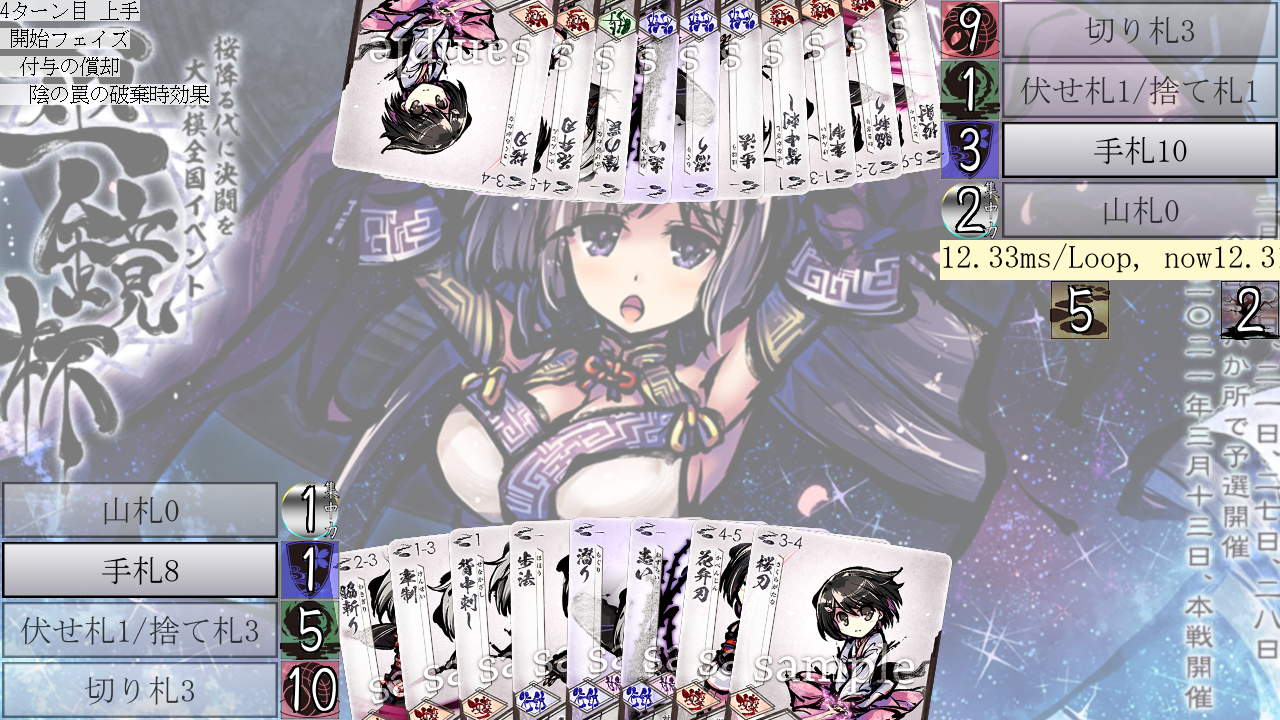
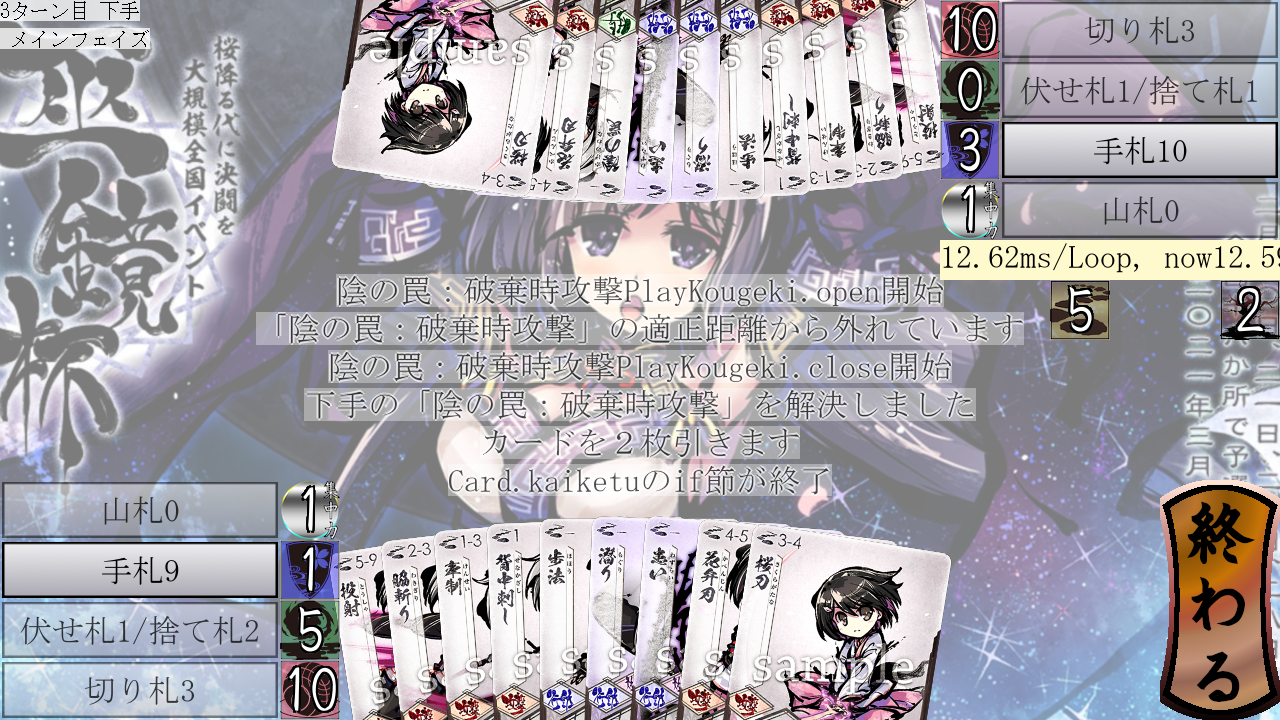
J305:moderator.last_layer関数を使って上にOverLayerが無い時に即時pop。更にPlayKougekiにもCard.can_play制約を追加

diff --git a/koukas/n_1.py b/koukas/n_1.py
@@ -55,10 +55,6 @@ def _taiounize_n_8(kougeki: Card, delivery: Delivery, hoyuusya: int) -> Card:
 n_8 = Card(img=pygame.image.load("cards/na_00_hajimari_a_n_8.png"), name="患い", cond=auto_di, type=CT_KOUDOU,
            kouka=_kouka_n_8, taiou=True, taiounize=_taiounize_n_8)
 
-def EOF(delivery: Delivery, hoyuusya: int) -> None:
-    raise EOFError("よしっ！")
-
-# def _hakizi_n_9(delivery: Delivery, hoyuusya: int) -> None:
 _atk_n_9 = Card(img=pygame.image.load("cards/na_00_hajimari_a_n_9.png"), name="陰の罠：破棄時攻撃", cond=auto_di, type=CT_KOUGEKI,
                 aura_damage=int_di(3), life_damage=int_di(2), maai_list=dima_di(2, 3))
 

diff --git a/mod/ol/play_kougeki/play_kougeki.py b/mod/ol/play_kougeki/play_kougeki.py
@@ -38,6 +38,9 @@ class PlayKougeki():
         return self.uke_taba.get_hover_huda() or self.taiou_taba.get_hover_huda() or view_youso
 
     def open(self) -> None:
+        # if not self.kougeki.can_play(delivery=self.delivery, hoyuusya=self.hoyuusya, popup=True):
+        #     moderator.pop()
+        #     return
         self.uke_taba = make_uke_taba(kougeki=self.kougeki, discard_source=self._discard_source,
                                       delivery=self.delivery, hoyuusya=self.hoyuusya)
         self.taiou_taba = make_taiou_taba(delivery=self.delivery, hoyuusya=self.hoyuusya)

diff --git a/mod/card.py b/mod/card.py
@@ -58,6 +58,7 @@ class Card():
         elif self.type == CT_KOUGEKI:
             from mod.ol.play_kougeki.play_kougeki import PlayKougeki
             moderator.append(over_layer=PlayKougeki(kougeki=self, delivery=delivery, hoyuusya=hoyuusya, huda=huda))
+            popup_message.add("Card.kaiketuのif節が終了")
         elif self.type == CT_HUYO:
             from mod.ol.play_huyo import PlayHuyo
             moderator.append(over_layer=PlayHuyo(card=self, delivery=delivery, hoyuusya=hoyuusya, huda=huda))

diff --git a/mod/ol/hakizi.py b/mod/ol/hakizi.py
@@ -24,10 +24,12 @@ class Hakizi():
 
     def open(self) -> None:
         self.huda.card.hakizi(self.delivery, self.hoyuusya)
-        moderator.pop()
+        if moderator.last_layer() == self:
+            moderator.pop()
 
     def close(self) -> PopStat:
         return PopStat(POP_HAKIZI_DID)
 
     def moderate(self, stat: PopStat) -> None:
+        moderator.pop()
         ...

diff --git a/mod/moderator.py b/mod/moderator.py
@@ -44,4 +44,7 @@ class Moderator():
             img_nega.blit(source=mozi, dest=[0, i*(FONT_SIZE_STACK_LOG+4)])
         screen.blit(source=img_nega, dest=[0, 0])
 
+    def last_layer(self) -> OverLayer:
+        return self.stack[-1]
+
 moderator = Moderator()
